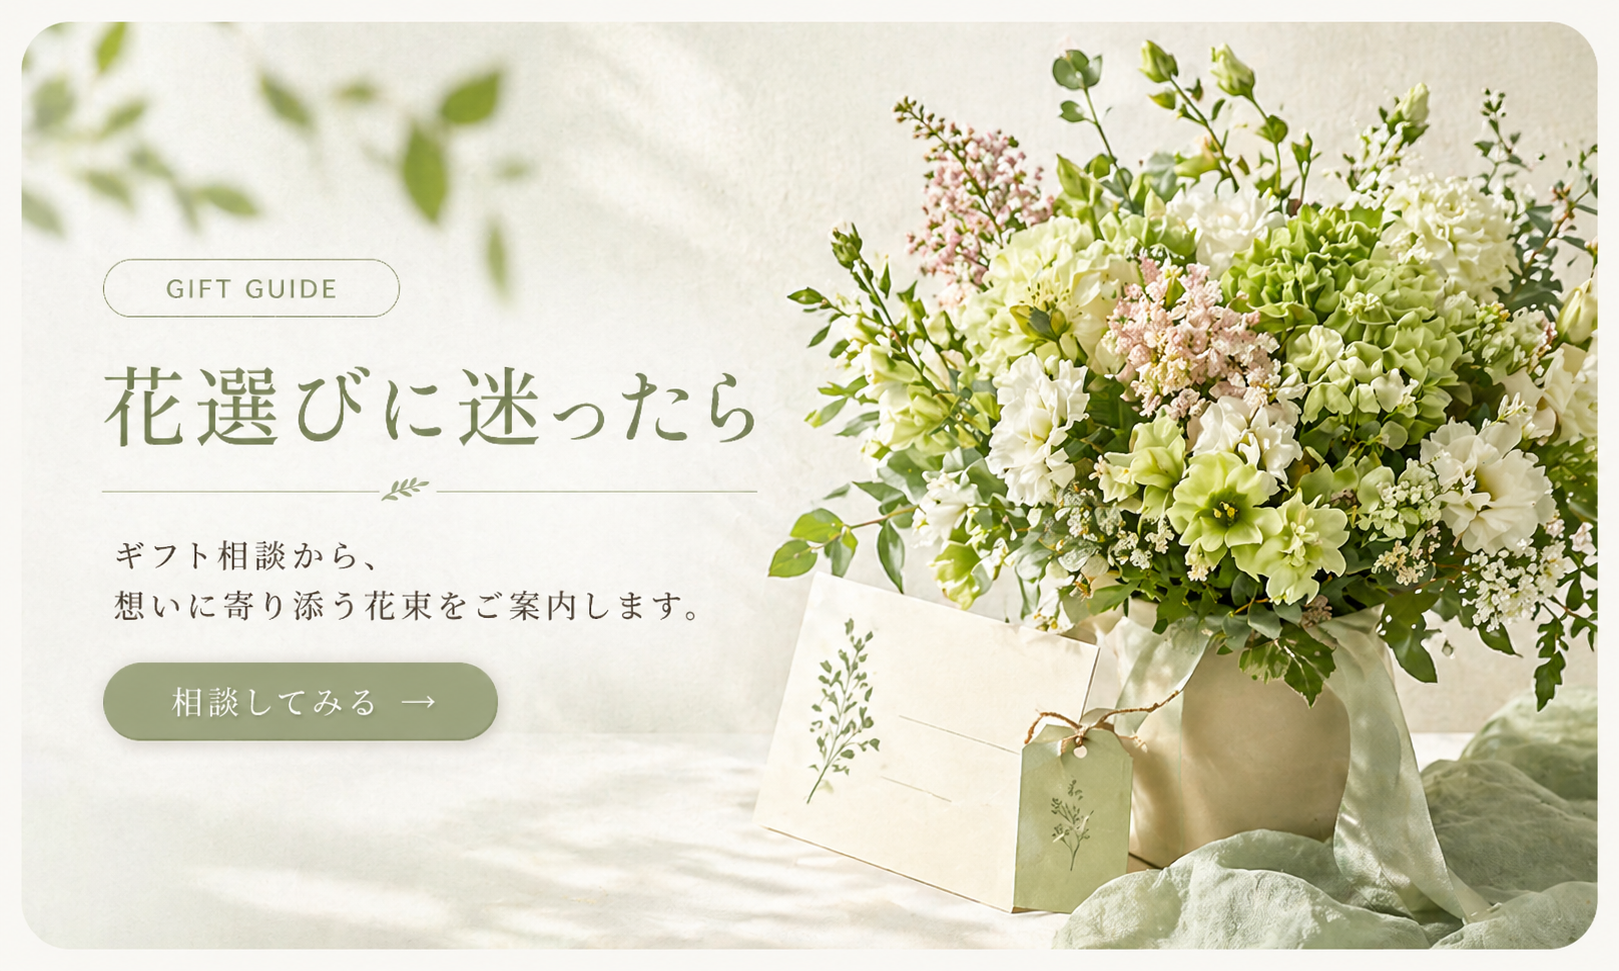
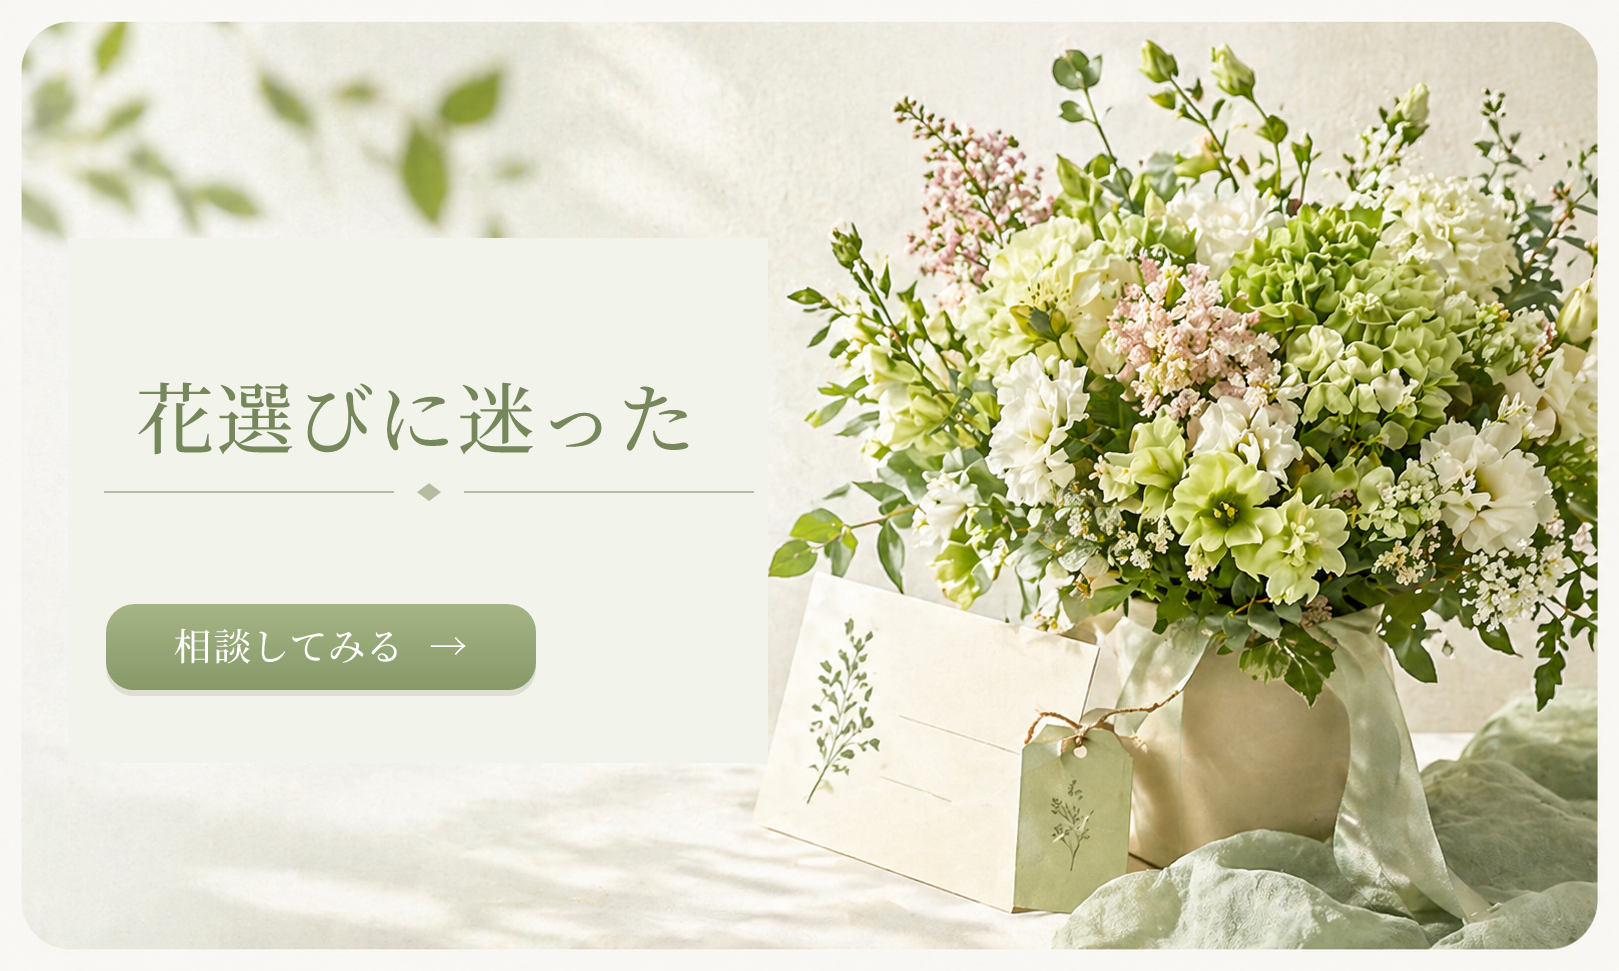
特集バナー改善とRender用Docker設定を追加

diff --git a/products.html b/products.html
@@ -92,6 +92,7 @@
               <article class="product-card" data-scene="celebration" data-page="1"><span class="product-card__badge">Celebration</span><div class="product-card__image product-card__image--page2-8" aria-hidden="true"></div><div class="product-card__content"><h3>Apricot Carnation</h3><p>アプリコット色のカーネーションが映える、温かみのある祝福の花束。</p><div class="product-card__footer"><strong>¥7,400</strong><a href="product-detail.html?product=apricot-carnation">詳細を見る</a></div></div></article>
               <article class="product-card" data-scene="thanks" data-page="1"><span class="product-card__badge">Thanks</span><div class="product-card__image product-card__image--babybreath"></div><div class="product-card__content"><h3>Baby's Breath Air</h3><p>カスミソウの白をふんわり束ねた、軽やかでやさしい感謝のブーケ。</p><div class="product-card__footer"><strong>¥7,600</strong><a href="product-detail.html?product=babys-breath-air">詳細を見る</a></div></div></article>
               <article class="product-card" data-scene="seasonal" data-page="1"><span class="product-card__badge">Seasonal Gift</span><div class="product-card__image product-card__image--page2-3" aria-hidden="true"></div><div class="product-card__content"><h3>Blue Hydrangea Air</h3><p>淡いブルーのあじさいを束ねた、初夏の空気を感じる涼やかな花束。</p><div class="product-card__footer"><strong>¥8,800</strong><a href="product-detail.html?product=blue-hydrangea-air">詳細を見る</a></div></div></article>
+              <article class="product-card" data-scene="seasonal" data-page="1"><span class="product-card__badge">Seasonal Gift</span><div class="product-card__image product-card__image--spring-letter" aria-hidden="true"></div><div class="product-card__content"><h3>Spring Letter</h3><p>淡いピンクの花々と小花をやわらかく束ねた、春の訪れを感じる上品な花束。</p><div class="product-card__footer"><strong>¥8,600</strong><a href="product-detail.html?product=spring-letter">詳細を見る</a></div></div></article>
               <article class="product-card" data-scene="birthday" data-page="1"><span class="product-card__badge">Birthday</span><div class="product-card__image product-card__image--birthday-bloom"></div><div class="product-card__content"><h3>Birthday Bloom</h3><p>人気のピンク系の花を束ねた、明るく華やかなバースデーブーケ。</p><div class="product-card__footer"><strong>¥8,500</strong><a href="product-detail.html?product=birthday-bloom">詳細を見る</a></div></div></article>
               <article class="product-card" data-scene="birthday" data-page="1"><span class="product-card__badge">Birthday</span><div class="product-card__image product-card__image--birthday-alt"></div><div class="product-card__content"><h3>Bloom Letter Pink</h3><p>やわらかなピンクを束ねた、友人にも贈りやすい軽やかな花束。</p><div class="product-card__footer"><strong>¥8,300</strong><a href="product-detail.html?product=bloom-letter-pink">詳細を見る</a></div></div></article>
               <article class="product-card" data-scene="celebration" data-page="1"><span class="product-card__badge">Celebration</span><div class="product-card__image product-card__image--scene-celebration"></div><div class="product-card__content"><h3>Celebration Lily Rose</h3><p>白いユリと赤いローズを束ねた、華やかで凛とした祝福の花束。</p><div class="product-card__footer"><strong>¥10,600</strong><a href="product-detail.html?product=celebration-lily-rose">詳細を見る</a></div></div></article>
@@ -116,7 +117,7 @@
               <article class="product-card" data-scene="seasonal" data-page="3"><span class="product-card__badge">Seasonal Gift</span><div class="product-card__image product-card__image--wisteria"></div><div class="product-card__content"><h3>Wisteria Veil</h3><p>藤の花を思わせるやわらかな紫で、初夏の空気を映した季節ブーケ。</p><div class="product-card__footer"><strong>¥8,600</strong><a href="product-detail.html?product=wisteria-veil">詳細を見る</a></div></div></article>
               <article class="product-card" data-scene="seasonal" data-page="3"><span class="product-card__badge">Seasonal Gift</span><div class="product-card__image product-card__image--page2-6" aria-hidden="true"></div><div class="product-card__content"><h3>Wine Anemone</h3><p>深いワインレッドのアネモネが映える、冬の空気に似合う季節ブーケ。</p><div class="product-card__footer"><strong>¥9,200</strong><a href="product-detail.html?product=wine-anemone">詳細を見る</a></div></div></article>
             </div>
-            <nav class="pagination" aria-label="ページネーション"><a class="pagination__link is-current" href="#" data-page-link="1">1</a><a class="pagination__link" href="#" data-page-link="2">2</a><a class="pagination__link" href="#" data-page-link="3">3</a><a class="pagination__link" href="#" data-page-next>次へ</a></nav>
+            <nav class="pagination" aria-label="ページネーション"><a class="pagination__link is-current" href="#" data-page-link="1">1</a><a class="pagination__link" href="#" data-page-link="2">2</a><a class="pagination__link" href="#" data-page-link="3">3</a><a class="pagination__link" href="#" data-page-link="4">4</a><a class="pagination__link" href="#" data-page-next>次へ</a></nav>
           </section>
         </div>
       </section>

diff --git a/css/style.css b/css/style.css
@@ -1179,12 +1179,12 @@ a:hover { color: var(--black); }
 }
 
 .home-section--feature {
-  padding: 24px 0 28px;
+  padding: 28px 0 34px;
   background: var(--site-bg);
 }
 
 .home-section--feature + .home-section {
-  padding-top: 44px;
+  padding-top: 48px;
 }
 
 .home-section--story {
@@ -1360,7 +1360,7 @@ a:hover { color: var(--black); }
   display: flex;
   gap: 16px;
   margin: 0 -16px;
-  padding: 0 16px 14px;
+  padding: 0 16px 18px;
   overflow-x: auto;
   overscroll-behavior-inline: contain;
   scroll-behavior: smooth;
@@ -1374,7 +1374,7 @@ a:hover { color: var(--black); }
 }
 
 .seasonal-feature-banner {
-  flex: 0 0 min(540px, 86vw);
+  flex: 0 0 min(720px, 92vw);
   display: block;
   overflow: hidden;
   aspect-ratio: 1672 / 941;
@@ -1541,6 +1541,11 @@ a:hover { color: var(--black); }
 .product-card__image--soft-merci {
   background-image: url("../images/Top/scene/Soft Merci.png");
   background-position: center 30%;
+}
+
+.product-card__image--spring-letter {
+  background-image: url('../images/products/spring-letter-pink.png');
+  background-position: center 50%;
 }
 
 .product-card__image--celebration-alt {
@@ -2780,6 +2785,7 @@ a:hover { color: var(--black); }
   background-position: center 28% !important;
 }
 #product-grid .product-card__image--soft-merci { background-position: center 33% !important; }
+#product-grid .product-card__image--spring-letter { background-position: center 50% !important; }
 #product-grid .product-card__image--babybreath { background-position: center 27% !important; }
 #product-grid .product-card__image--lilybell { background-position: center 26% !important; }
 #product-grid .product-card__image--sunflower { background-position: center 24% !important; }
@@ -3803,7 +3809,7 @@ a:hover { color: var(--black); }
     grid-template-columns: repeat(2, minmax(0, 1fr));
   }
   .seasonal-feature-banner {
-    flex-basis: min(540px, 48vw);
+    flex-basis: min(760px, 78vw);
   }
   .hero__grid,
   .story-grid,
@@ -4045,20 +4051,21 @@ a:hover { color: var(--black); }
   .hero__media,
   .hero__content { min-height: 680px; }
   .home-section--feature {
-    padding: 30px 0 24px;
+    padding: 36px 0 34px;
   }
   .home-section--feature + .home-section {
-    padding-top: 52px;
+    padding-top: 56px;
   }
   .scene-grid { grid-template-columns: repeat(4, minmax(0, 1fr)); }
   .seasonal-feature-grid {
     gap: 18px;
     margin: 0 -24px;
     padding-inline: 24px;
+    padding-bottom: 20px;
     scroll-padding-inline: 24px;
   }
   .seasonal-feature-banner {
-    flex-basis: min(520px, 39%);
+    flex-basis: clamp(640px, 66%, 780px);
   }
   .seasonal-feature-control {
     display: inline-flex;

diff --git a/index.html b/index.html
@@ -69,17 +69,17 @@
             <span class="material-symbols-outlined" aria-hidden="true">chevron_left</span>
           </button>
           <div class="seasonal-feature-grid" data-feature-carousel-track>
-            <a class="seasonal-feature-banner" href="products.html?scene=Seasonal%20Gift&feature=spring-gift#product-grid-title" aria-label="春の贈りもの特集の商品を見る">
+            <a class="seasonal-feature-banner" href="product-detail.html?product=spring-letter" aria-label="Spring Letterの商品詳細を見る">
               <img src="images/banners/spring-gift-banner.png" alt="春の贈りもの特集バナー" loading="lazy">
             </a>
-            <a class="seasonal-feature-banner" href="products.html?scene=Seasonal%20Gift&feature=early-summer#product-grid-title" aria-label="初夏の花贈り特集の商品を見る">
+            <a class="seasonal-feature-banner" href="product-detail.html?product=early-summer-breeze" aria-label="Early Summer Breezeの商品詳細を見る">
               <img src="images/banners/early-summer-banner.png" alt="初夏の花贈り特集バナー" loading="lazy">
             </a>
-            <a class="seasonal-feature-banner" href="products.html?scene=Thanks&feature=thanks-gift#product-grid-title" aria-label="感謝を伝える花束特集の商品を見る">
+            <a class="seasonal-feature-banner" href="product-detail.html?product=apricot-merci" aria-label="Apricot Merciの商品詳細を見る">
               <img src="images/banners/thanks-gift-banner.png" alt="感謝を伝える花束特集バナー" loading="lazy">
             </a>
-            <a class="seasonal-feature-banner seasonal-feature-banner--guide" href="#gift-chat-panel" data-open-gift-chat aria-controls="gift-chat-panel" aria-label="花選びに迷ったときのギフト相談を開く">
-              <img src="images/banners/gift-guide-banner.png" alt="花選びに迷ったらギフト相談へ案内する特集バナー" loading="lazy">
+            <a class="seasonal-feature-banner seasonal-feature-banner--guide" href="contact.html" aria-label="花選びに迷ったときのお問い合わせフォームへ移動">
+              <img src="images/banners/gift-guide-banner.png" alt="花選びに迷ったらお問い合わせへ案内する特集バナー" loading="lazy">
             </a>
           </div>
           <button class="seasonal-feature-control seasonal-feature-control--next" type="button" data-feature-carousel-next aria-label="次の特集バナーを見る">

diff --git a/js/main.js b/js/main.js
@@ -400,11 +400,11 @@ const RAW_PRODUCT_CATALOG = [
     occasions: '季節のギフト / 春の贈り物 / やわらかな彩り',
     flowers: 'チューリップ、ピンクカーネーション、小花',
     shipping: '注文から3営業日以内に発送',
-    image: 'images/products/spring-letter.png',
+    image: 'images/products/spring-letter-pink.png',
     imageAlt: 'Spring Letter の商品画像',
     imagePosition: 'center 50%',
     relatedImageSize: '116%',
-    relatedImagePosition: 'center 48%',
+    relatedImagePosition: 'center 50%',
     season: ['spring'],
     relatedBanner: '春の贈りもの'
   },
